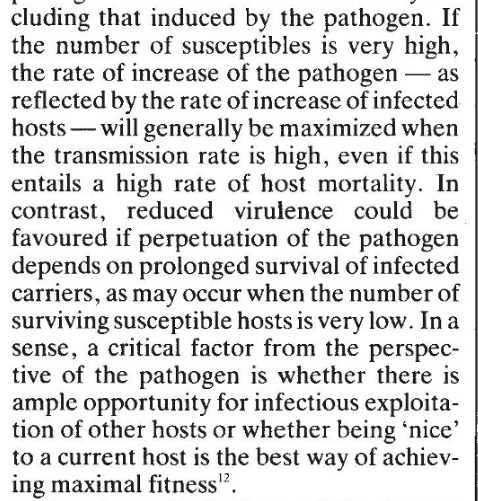
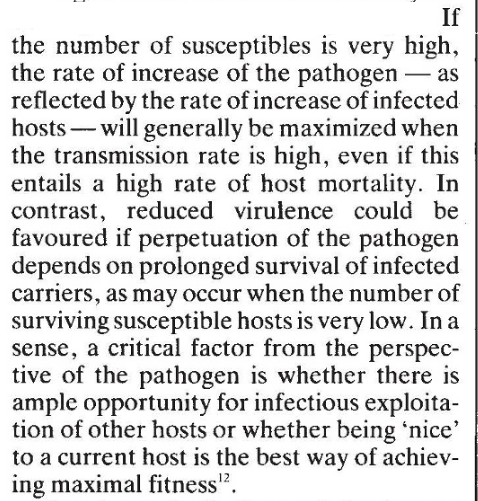
draft of CSEE talk

Changed region(s): [[0.0, 0.0, 0.9079, 0.0599]]

diff --git a/metapop/csee_talk/TODO.md b/metapop/csee_talk/TODO.md
@@ -1,9 +1,6 @@
 ## To do
 
-* look up instructions for uploading!
-* play with figure/text placement (revealjs)
-* results figures !!
-* conclusions ...
+* look up instructions for uploading! https://dashboard.fourwaves.com/participant/my-submissions
 * burnout figure (as extra)?
-* figure from Sidhu et al graphical abstract
-* acknowledgements
+* clean up plots
+
